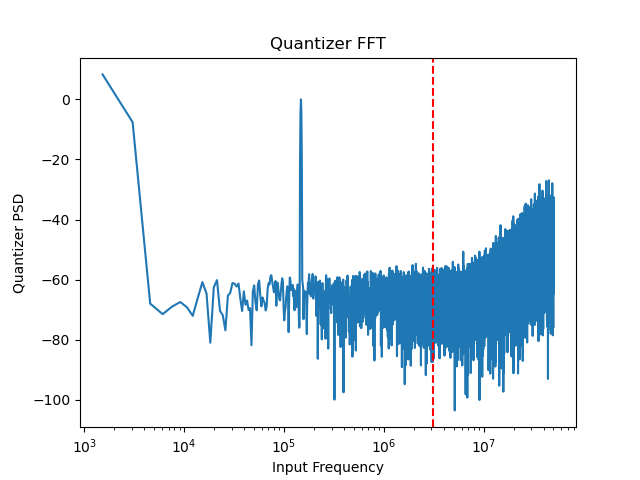
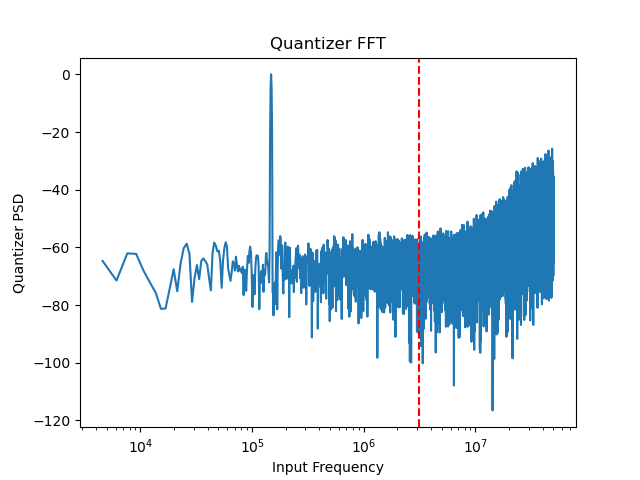
plots and measurements working, just need digital filtering

diff --git a/python/nssar.py b/python/nssar.py
@@ -16,7 +16,7 @@ import pdb
 class NSSAR:
 
     def __init__(self, n_quantizer_bits=3, cap_mismatch_sigma=0.02, \
-                 n_fixed_point_bits=0, n_fractional_bits=0, filter_order=6,
+                 n_fixed_point_bits=24, n_fractional_bits=16, filter_order=4,
                  vdd=1.0, vss=0, max_nfft=2**20, max_osr=256):
         '''
         set class with hardware constraints and initialize register fields
@@ -31,11 +31,12 @@ class NSSAR:
             'reset_dwa': True,
             'offset_samples': 1500
         }
-        normalized_fc = 1 / (2 * self._reg['nfft'])
-        b, a = iirfilter(filter_order, 2 * normalized_fc, \
+        normalized_fc = 1 / self._reg['osr']
+        b, a = iirfilter(filter_order, normalized_fc, \
                          btype='lowpass', output='ba', ftype='butter')
         self._n_fractional_bits = n_fractional_bits
         self._n_fixed_point_bits = n_fixed_point_bits
+        pdb.set_trace()
         b = self._fp_quantize(b)
         a = self._fp_quantize(a)
         self._reg['filter_numerator'] = b
@@ -134,7 +135,9 @@ class NSSAR:
         on that
         '''
         q_data = self._get_windowed_fft_data()
-        freqs = self._get_fft_frequencies()
+        T = self._reg['osr'] / self._reg['fs']
+        freqs = np.fft.fftfreq(self._reg['nfft'], T)[1:1+(self._reg['nfft'] // 2)]
+        freqs[-1] *= -1
         fft_pow = np.real(q_data * np.conj(q_data))
         i_max_pow = np.argmax(fft_pow[3:]) + 3  # bin smearing due to Blackman
         fft_pow /= fft_pow[i_max_pow]
@@ -147,7 +150,7 @@ class NSSAR:
             ax.set_title('Output FFT')
         else:
             fig = ax.get_figure()
-        ax.plot(freqs, fft_pow_db)
+        ax.plot(freqs[2:], fft_pow_db[2:])
         return fig
 
     def plot_quantizer_fft(self, ax=None):
@@ -158,7 +161,10 @@ class NSSAR:
         on that
         '''
         q_data = self._get_windowed_fft_data(True)
-        freqs = self._get_fft_frequencies(True)
+        T = 1 / self._reg['fs']
+        nfft_derived = self._reg['nfft'] * self._reg['osr']
+        freqs = np.fft.fftfreq(nfft_derived, T)[1:1+(nfft_derived // 2)]
+        freqs[-1] *= -1
         fft_pow = np.real(q_data * np.conj(q_data))
         i_max_pow = np.argmax(fft_pow[3:]) + 3  # bin smearing due to Blackman
         fft_pow /= fft_pow[i_max_pow]
@@ -171,7 +177,7 @@ class NSSAR:
             ax.set_title('Quantizer FFT')
         else:
             fig = ax.get_figure()
-        ax.plot(freqs, fft_pow_db)
+        ax.plot(freqs[2:], fft_pow_db[2:])
         critical_frequency = self._reg['fs'] / (2 * self._reg['osr'])
         ax.axvline(x=critical_frequency, color='red', linestyle='--')
         return fig
@@ -200,14 +206,43 @@ class NSSAR:
         Returns the SNDR of the last conversion. If no conversion has been
         done yet, return 0
         '''
-        return 0
+        fft_data = self._get_windowed_fft_data()[2:]  # filter out DC data
+        fft_pow = np.real(fft_data * np.conj(fft_data))
+        i_max_power = np.argmax(fft_pow)
+        signal_slice = np.arange(i_max_power-2, i_max_power+3)
+        filt = np.zeros(fft_pow.shape[0], dtype=bool)
+        filt[signal_slice] = True
+        is_signal_indices = filt
+        signal_power = np.sum(fft_pow[is_signal_indices])
+        noise_power = np.sum(fft_pow[~is_signal_indices])
+        sndr = signal_power / noise_power
+        sndr_db = 10 * np.log10(sndr)
+        return sndr_db
 
     def get_sfdr(self):
         '''
         Returns the SFDR of the last conversion. If no conversion has been
         done yet, return 0
         '''
-        return 0
+        fft_data = self._get_windowed_fft_data()[2:]  # filter out DC data
+        fft_pow = np.real(fft_data * np.conj(fft_data))
+        i_max_power = np.argmax(fft_pow)
+        noise_slice_to_signal = np.arange(i_max_power-2)
+        noise_signal_to_fs = np.arange(i_max_power+3, fft_pow.shape[0])
+        indices = np.zeros(fft_pow.shape[0], dtype=bool)
+        is_noise_slice_low = indices
+        is_noise_slice_low[noise_slice_to_signal] = True
+        is_noise_slice_high = indices
+        is_noise_slice_low[noise_signal_to_fs] = True
+        signal_power = fft_pow[i_max_power]
+        noise_power_low = fft_pow[is_noise_slice_low]
+        noise_power_high = fft_pow[is_noise_slice_high]
+        max_pow_low = np.max(noise_power_low)
+        max_pow_high = np.max(noise_power_high)
+        noise_power = np.max((max_pow_high, max_pow_low))
+        sfdr = signal_power / noise_power
+        sfdr_db = 10 * np.log10(sfdr)
+        return sfdr_db
 
     def _fp_quantize(self, value):
         '''
@@ -223,6 +258,13 @@ class NSSAR:
         is_under_min = value < min_value
         value[is_over_max] = max_value
         value[is_under_min] = min_value
+        return value
+    
+    def _fp_add(self, a, b):
+        pass
+
+    def _fp_mult(self, a, b):
+        pass
 
     def _generate_loop_arrays(self):
         '''
@@ -332,7 +374,9 @@ class NSSAR:
                 self._d2_incremental[i - 1]
 
     def _step_iir_filter(self, i):
-        pass
+        num = self._reg['filter_numerator']
+        den = self._reg['filter_denominator']
+        pdb.set_trace()
 
     def _write_data_to_memory(self):
         adc_data = self._d2_incremental[self._sample_output]

diff --git a/python/nssar_test.py b/python/nssar_test.py
@@ -1,5 +1,6 @@
 from nssar import NSSAR
 import pdb
+import numpy as np
 
 
 def test_fft_plots():
@@ -21,6 +22,10 @@ def test_fft_plots():
     fig_data.savefig('./img/quantizer_data.png')
     fig_fft.savefig('./img/quantizer_fft.png')
     fig_output_fft.savefig('./img/output_fft.png')
+    sndr = sar.get_sndr()
+    sfdr = sar.get_sfdr()
+    print(f'SAR SNDR: {np.round(sndr, 2)} dB')
+    print(f'SAR SFDR: {np.round(sfdr, 2)} dB')
 
 
 def main():

diff --git a/python/nssar_prototype.py b/python/nssar_prototype.py
@@ -43,7 +43,7 @@ def adc_loop():
 
     # calculate filter coefficients
     normalized_fc = 1 / (osr)
-    b, a = iirfilter(10, normalized_fc, btype='lowpass', output='ba', ftype='butter')
+    b, a = iirfilter(4, normalized_fc, btype='lowpass', output='ba', ftype='butter')
 
     # calculate mismatched capacitor arrays if using mismatch, all 1 otherwise
     cp = get_cap_array(quantizer_bits, sigma, use_mismatch)
